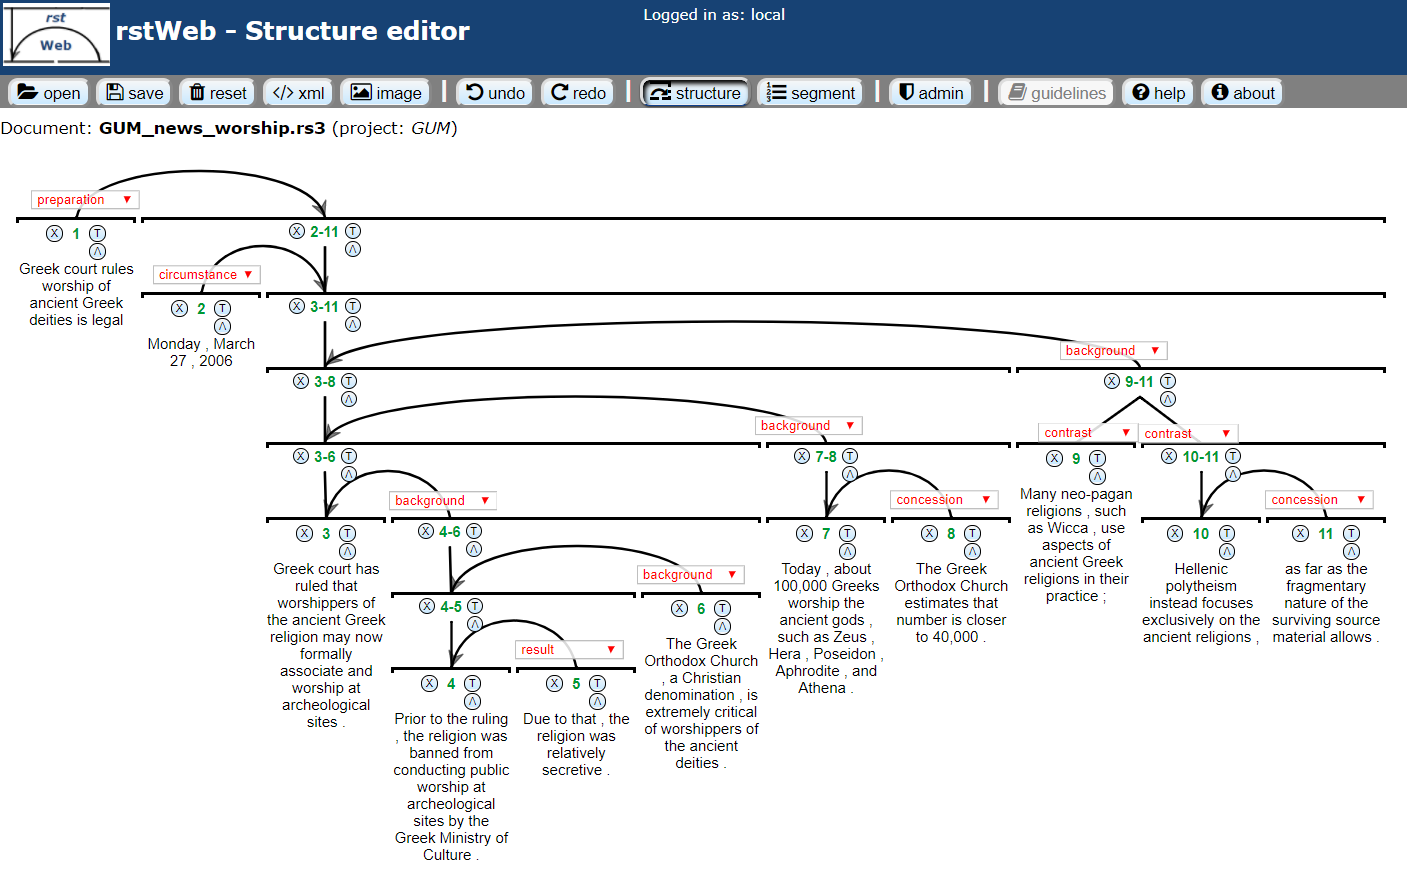
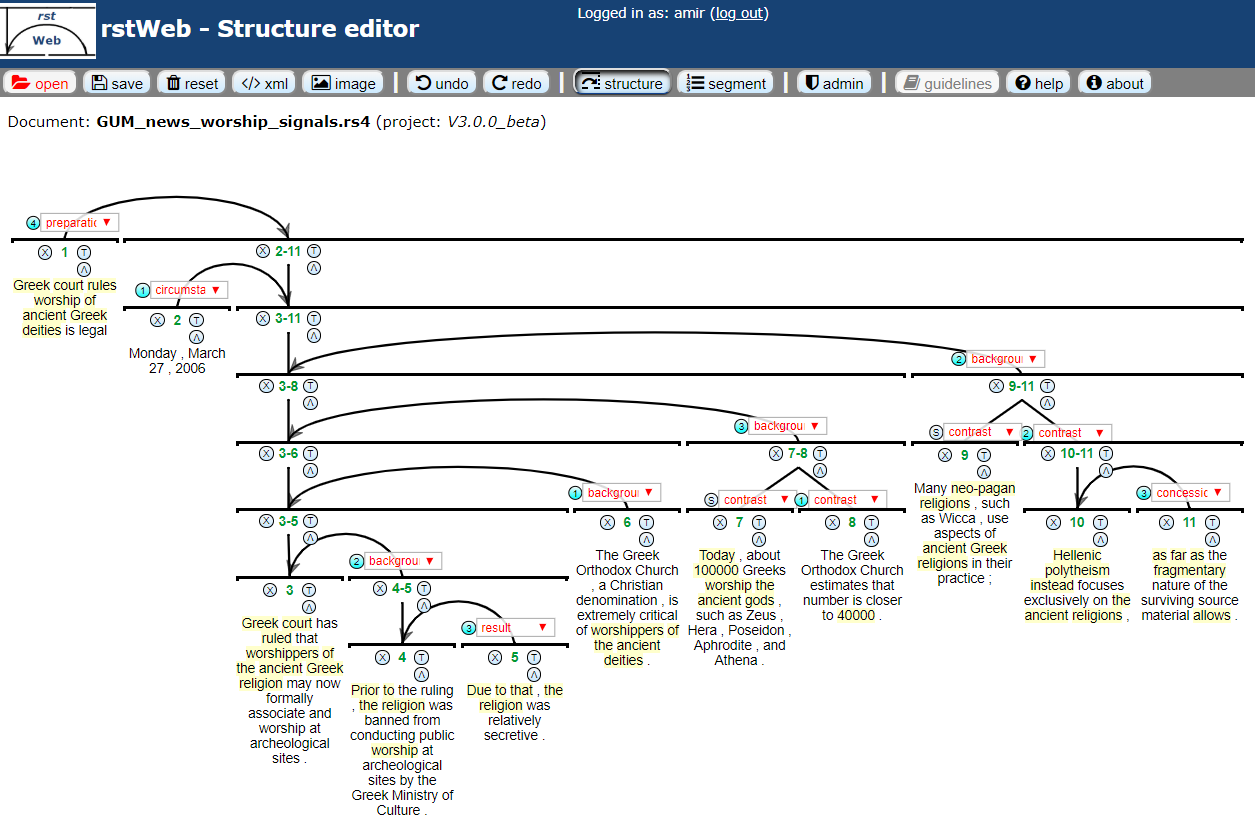
README

Changed region(s): [[0.0, 0.1868, 0.9944, 0.9964], [0.0, 0.0, 1.0, 0.1557], [0.4351, 0.0, 0.6215, 0.0311]]

diff --git a/README.md b/README.md
@@ -8,7 +8,7 @@ URL: https://corpling.uis.georgetown.edu/rstweb/info/
 
 ## Introduction
 
-rstWeb is an open source, browser based annotation tool for discourse analyses in Rhetorical Structure Theory. It is meant to support collaborative, online annotation projects using just a Web browser, without the need to install software for annotators, though there is also a standalone local version for offline use if you do not have access to a server. 
+rstWeb is an open source, browser based annotation tool for discourse analyses in Rhetorical Structure Theory and annotation of discourse relation signals, such as connectives / discourse markers. It is meant to support collaborative, online annotation projects using just a Web browser, without the need to install software for annotators, though there is also a standalone local version for offline use if you do not have access to a server. 
 
 ## Local Installation
 
@@ -103,3 +103,34 @@ If you’re having trouble, it’s possible some permissions are set incorrectly
 ### Upgrading
 
 If you have upgraded from an older version of rstWeb, it is recommended to click on admin -> database -> update schema (NOT ‘init DB’). This should not result in data loss, but backing up the rstweb.db is always a good idea. If new features are not working, you should also empty your browser cache to reload all css and javascript updates.
+
+## Citing
+
+If you're using rstWeb to annotate RST trees for a project or article, please cite the following paper:
+
+Zeldes, Amir (2016) [rstWeb - A Browser-based Annotation Interface for Rhetorical Structure Theory and Discourse Relations](https://www.aclweb.org/anthology/N16-3001). In: Proceedings of NAACL-HLT 2016 System Demonstrations. San Diego, CA, 1-5.
+```
+@InProceedings{,
+  author    = {Amir Zeldes},
+  title     = {{rstWeb} - A Browser-based Annotation Interface for Rhetorical Structure Theory and Discourse Relations},
+  booktitle = {Proceedings of NAACL-HLT 2016 System Demonstrations},
+  year      = {2016},
+  address   = {San Diego, CA},
+  pages     = {1--5}
+}
+```
+
+If you are using the system to annotate discourse relation signals, use this paper instead:
+
+Gessler, Luke, Yang Liu and Amir Zeldes (2019) [A Discourse Signal Annotation System for RST Trees](https://www.aclweb.org/anthology/W19-2708). In: Proceedings of Discourse Relation Treebanking and Parsing (DISRPT 2019). Minneapolis, MN, 56-61.
+```
+@InProceedings{,
+  author    = {Luke Gessler and Yang Liu and Amir Zeldes},
+  title     = {A Discourse Signal Annotation System for {RST} Trees},
+  booktitle = {Proceedings of Discourse Relation Treebanking and Parsing (DISRPT 2019)},
+  year      = {2019},
+  address   = {Minneapolis, MN},
+  pages     = {56--61}
+}
+```
+
